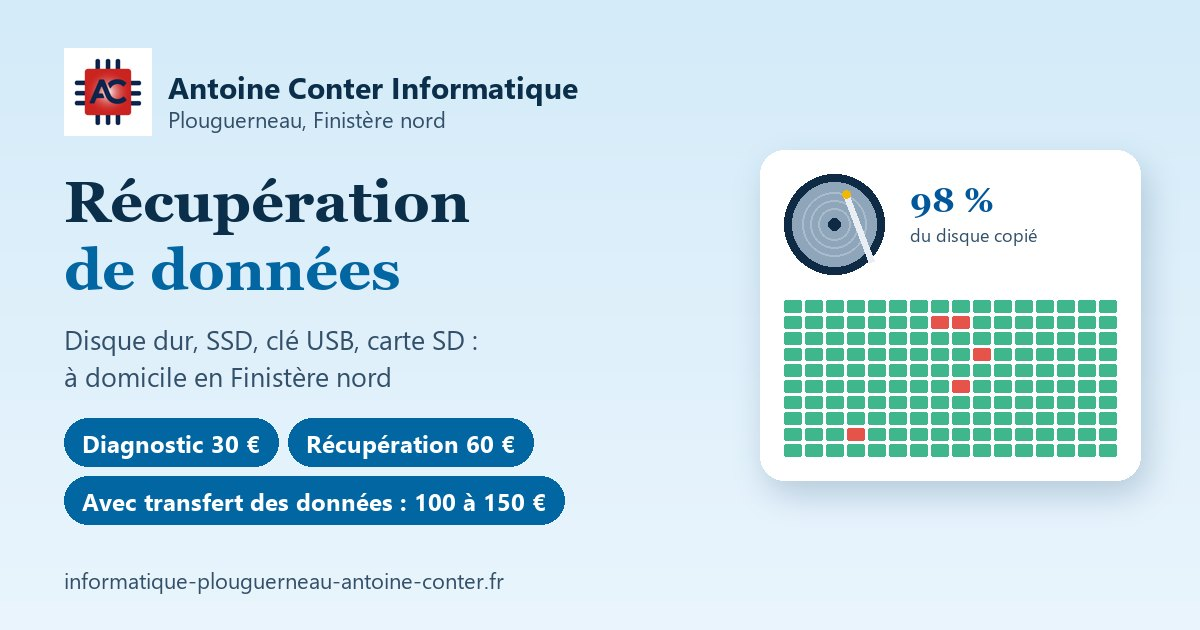
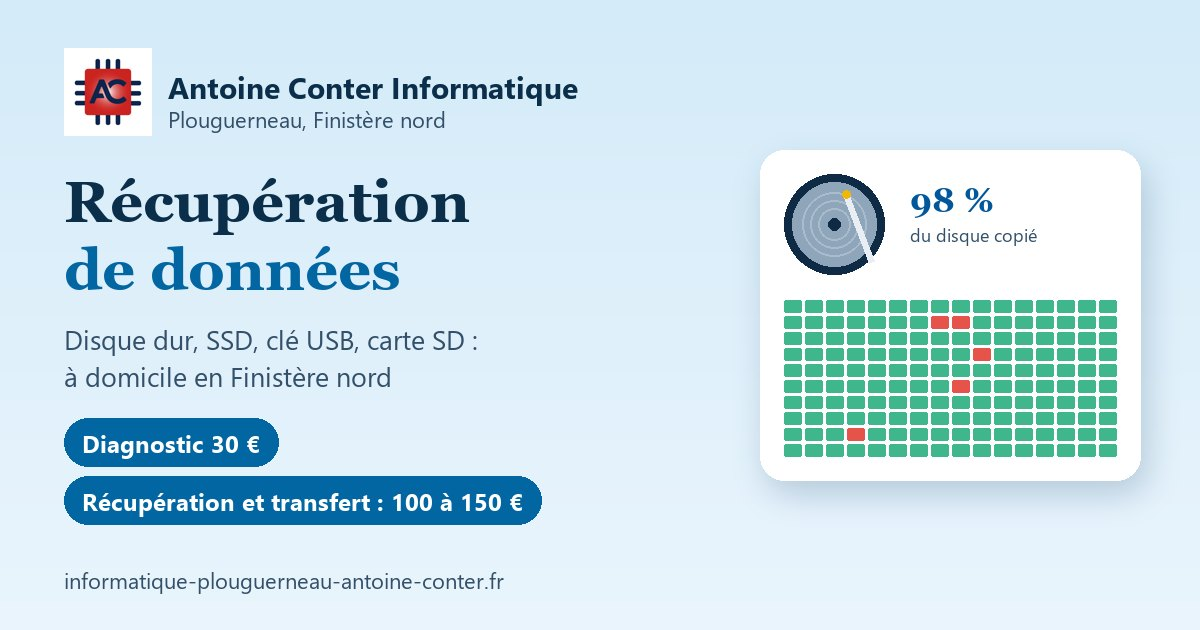
Recuperation de donnees : retrait de la formule recuperation seule

Changed region(s): [[0.0617, 0.6635, 0.4933, 0.8444]]

diff --git a/recuperation-donnees.html b/recuperation-donnees.html
@@ -29,10 +29,10 @@
   {"@context": "https://schema.org", "@type": "WebPage", "@id": "https://informatique-plouguerneau-antoine-conter.fr/recuperation-donnees.html#page", "url": "https://informatique-plouguerneau-antoine-conter.fr/recuperation-donnees.html", "name": "Récupération de données disque dur, SSD, clé USB, Finistère", "description": "Disque dur (HDD), SSD, clé USB ou carte SD illisible, fichiers effacés, PC qui ne démarre plus : récupération à domicile en Finistère nord. Diagnostic 30 €.", "inLanguage": "fr-FR", "datePublished": "2026-11-20", "dateModified": "2026-11-20", "isPartOf": {"@id": "https://informatique-plouguerneau-antoine-conter.fr/#website"}, "about": {"@id": "https://informatique-plouguerneau-antoine-conter.fr/recuperation-donnees.html#service"}, "primaryImageOfPage": {"@type": "ImageObject", "url": "https://informatique-plouguerneau-antoine-conter.fr/og-recuperation-donnees.jpg", "width": 1200, "height": 630}}
   </script>
   <script type="application/ld+json">
-  {"@context": "https://schema.org", "@type": "Service", "@id": "https://informatique-plouguerneau-antoine-conter.fr/recuperation-donnees.html#service", "name": "Récupération de données disque dur, SSD et clé USB en Finistère nord", "serviceType": "Récupération de données", "alternateName": ["Récupération de données disque dur", "Récupération de données SSD", "Récupération de données clé USB"], "description": "Récupération de fichiers sur disque dur (HDD), SSD, clé USB et carte SD : fichiers supprimés, supports formatés ou illisibles, ordinateurs qui ne démarrent plus, à domicile dans le nord Finistère. Diagnostic 30 €, récupération seule 60 €, récupération avec transfert des données de 100 à 150 €, tâche supplémentaire 35 € de l'heure.", "url": "https://informatique-plouguerneau-antoine-conter.fr/recuperation-donnees.html", "provider": {"@type": "LocalBusiness", "@id": "https://informatique-plouguerneau-antoine-conter.fr/#business", "name": "Antoine Conter Informatique", "url": "https://informatique-plouguerneau-antoine-conter.fr/", "telephone": "+33641537334", "sameAs": ["https://maps.google.com/?cid=9547913039402363284", "https://www.pagesjaunes.fr/pros/64303798", "https://www.instagram.com/antoine_conter_informatique", "https://www.facebook.com/antoine_conter_informatique"], "address": {"@type": "PostalAddress", "addressLocality": "Plouguerneau", "postalCode": "29880", "addressRegion": "Finistère", "addressCountry": "FR"}}, "areaServed": [{"@type": "AdministrativeArea", "name": "Pays des Abers"}, {"@type": "AdministrativeArea", "name": "Lesneven Côte des Légendes"}, {"@type": "AdministrativeArea", "name": "Pays d'Iroise"}, {"@type": "AdministrativeArea", "name": "Brest Métropole"}, {"@type": "AdministrativeArea", "name": "Finistère Nord"}, {"@type": "City", "name": "Plouguerneau"}, {"@type": "City", "name": "Lannilis"}, {"@type": "City", "name": "Landéda"}, {"@type": "City", "name": "Plabennec"}, {"@type": "City", "name": "Lesneven"}, {"@type": "City", "name": "Le Folgoët"}, {"@type": "City", "name": "Ploudaniel"}, {"@type": "City", "name": "Kerlouan"}, {"@type": "City", "name": "Brest"}, {"@type": "City", "name": "Guipavas"}, {"@type": "City", "name": "Gouesnou"}, {"@type": "City", "name": "Plouzané"}, {"@type": "City", "name": "Le Relecq-Kerhuon"}, {"@type": "City", "name": "Saint-Renan"}, {"@type": "City", "name": "Ploudalmézeau"}, {"@type": "City", "name": "Landerneau"}, {"@type": "City", "name": "Landivisiau"}], "hasOfferCatalog": {"@type": "OfferCatalog", "name": "Récupération de données", "itemListElement": [{"@type": "Offer", "price": "30", "priceCurrency": "EUR", "itemOffered": {"@type": "Service", "name": "Diagnostic à domicile"}}, {"@type": "Offer", "priceCurrency": "EUR", "priceSpecification": {"@type": "PriceSpecification", "minPrice": "100", "maxPrice": "150", "priceCurrency": "EUR"}, "itemOffered": {"@type": "Service", "name": "Récupération et transfert des données"}}, {"@type": "Offer", "price": "60", "priceCurrency": "EUR", "itemOffered": {"@type": "Service", "name": "Récupération de données seule (forfait)", "description": "Disque dur HDD, SSD, clé USB ou carte SD"}}, {"@type": "Offer", "priceCurrency": "EUR", "priceSpecification": {"@type": "UnitPriceSpecification", "price": "35", "priceCurrency": "EUR", "unitText": "heure"}, "itemOffered": {"@type": "Service", "name": "Tâche supplémentaire"}}]}}
+  {"@context": "https://schema.org", "@type": "Service", "@id": "https://informatique-plouguerneau-antoine-conter.fr/recuperation-donnees.html#service", "name": "Récupération de données disque dur, SSD et clé USB en Finistère nord", "serviceType": "Récupération de données", "alternateName": ["Récupération de données disque dur", "Récupération de données SSD", "Récupération de données clé USB"], "description": "Récupération de fichiers sur disque dur (HDD), SSD, clé USB et carte SD : fichiers supprimés, supports formatés ou illisibles, ordinateurs qui ne démarrent plus, à domicile dans le nord Finistère. Diagnostic 30 €, récupération avec transfert des données de 100 à 150 €, tâche supplémentaire 35 € de l'heure.", "url": "https://informatique-plouguerneau-antoine-conter.fr/recuperation-donnees.html", "provider": {"@type": "LocalBusiness", "@id": "https://informatique-plouguerneau-antoine-conter.fr/#business", "name": "Antoine Conter Informatique", "url": "https://informatique-plouguerneau-antoine-conter.fr/", "telephone": "+33641537334", "sameAs": ["https://maps.google.com/?cid=9547913039402363284", "https://www.pagesjaunes.fr/pros/64303798", "https://www.instagram.com/antoine_conter_informatique", "https://www.facebook.com/antoine_conter_informatique"], "address": {"@type": "PostalAddress", "addressLocality": "Plouguerneau", "postalCode": "29880", "addressRegion": "Finistère", "addressCountry": "FR"}}, "areaServed": [{"@type": "AdministrativeArea", "name": "Pays des Abers"}, {"@type": "AdministrativeArea", "name": "Lesneven Côte des Légendes"}, {"@type": "AdministrativeArea", "name": "Pays d'Iroise"}, {"@type": "AdministrativeArea", "name": "Brest Métropole"}, {"@type": "AdministrativeArea", "name": "Finistère Nord"}, {"@type": "City", "name": "Plouguerneau"}, {"@type": "City", "name": "Lannilis"}, {"@type": "City", "name": "Landéda"}, {"@type": "City", "name": "Plabennec"}, {"@type": "City", "name": "Lesneven"}, {"@type": "City", "name": "Le Folgoët"}, {"@type": "City", "name": "Ploudaniel"}, {"@type": "City", "name": "Kerlouan"}, {"@type": "City", "name": "Brest"}, {"@type": "City", "name": "Guipavas"}, {"@type": "City", "name": "Gouesnou"}, {"@type": "City", "name": "Plouzané"}, {"@type": "City", "name": "Le Relecq-Kerhuon"}, {"@type": "City", "name": "Saint-Renan"}, {"@type": "City", "name": "Ploudalmézeau"}, {"@type": "City", "name": "Landerneau"}, {"@type": "City", "name": "Landivisiau"}], "hasOfferCatalog": {"@type": "OfferCatalog", "name": "Récupération de données", "itemListElement": [{"@type": "Offer", "price": "30", "priceCurrency": "EUR", "itemOffered": {"@type": "Service", "name": "Diagnostic à domicile"}}, {"@type": "Offer", "priceCurrency": "EUR", "priceSpecification": {"@type": "PriceSpecification", "minPrice": "100", "maxPrice": "150", "priceCurrency": "EUR"}, "itemOffered": {"@type": "Service", "name": "Récupération et transfert des données", "description": "Disque dur HDD, SSD, clé USB ou carte SD"}}, {"@type": "Offer", "priceCurrency": "EUR", "priceSpecification": {"@type": "UnitPriceSpecification", "price": "35", "priceCurrency": "EUR", "unitText": "heure"}, "itemOffered": {"@type": "Service", "name": "Tâche supplémentaire"}}]}}
   </script>
   <script type="application/ld+json">
-  {"@context": "https://schema.org", "@type": "FAQPage", "mainEntity": [{"@type": "Question", "name": "Combien coûte une récupération de données ?", "acceptedAnswer": {"@type": "Answer", "text": "Le diagnostic à domicile coûte 30 €. La récupération seule est facturée 60 € au forfait. Avec le transfert des données sur votre ordinateur ou un nouveau support, comptez de 100 à 150 € selon les cas. Toute tâche supplémentaire est facturée 35 € de l'heure. Je vous annonce le prix avant de commencer."}}, {"@type": "Question", "name": "Que faire en attendant votre intervention ?", "acceptedAnswer": {"@type": "Answer", "text": "N'utilisez plus le support : ne copiez rien dessus, n'y installez pas de logiciel de récupération et ne le reformatez pas. Chaque écriture peut effacer définitivement les fichiers supprimés."}}, {"@type": "Question", "name": "Mon ordinateur ne démarre plus, mes fichiers sont-ils perdus ?", "acceptedAnswer": {"@type": "Answer", "text": "Pas forcément. Quand Windows ne démarre plus, le disque est souvent intact : je récupère les fichiers en lisant le disque depuis un autre ordinateur."}}, {"@type": "Question", "name": "J'ai formaté une clé USB ou une carte SD, peut-on retrouver les fichiers ?", "acceptedAnswer": {"@type": "Answer", "text": "Souvent, oui, si rien n'a été réécrit dessus depuis. Un formatage rapide n'efface pas les fichiers eux-mêmes, seulement leur table de rangement."}}, {"@type": "Question", "name": "Peut-on récupérer les données d'un SSD ?", "acceptedAnswer": {"@type": "Answer", "text": "Oui, quand le SSD fonctionne encore et que les fichiers n'ont pas été supprimés : c'est le cas d'un ordinateur qui ne démarre plus, par exemple. En revanche, un fichier supprimé sur un SSD est souvent effacé pour de bon par la fonction TRIM de Windows."}}, {"@type": "Question", "name": "Ma clé USB n'est plus reconnue ou demande à être formatée, que faire ?", "acceptedAnswer": {"@type": "Answer", "text": "Ne la formatez pas. Débranchez-la et ne l'utilisez plus. Si la clé est encore détectée par l'ordinateur, ses fichiers sont souvent récupérables. Si elle n'est plus détectée du tout ou si elle est cassée, je vous dis si un laboratoire est nécessaire."}}, {"@type": "Question", "name": "Disque dur HDD ou SSD : lequel se récupère le mieux ?", "acceptedAnswer": {"@type": "Answer", "text": "Le disque dur classique (HDD) se récupère généralement mieux après une suppression ou un formatage, car il n'efface pas tout de suite les fichiers supprimés. Le SSD est plus fiable mécaniquement, mais un fichier supprimé y disparaît souvent rapidement."}}, {"@type": "Question", "name": "Mon disque dur fait du bruit, que faire ?", "acceptedAnswer": {"@type": "Answer", "text": "Débranchez-le tout de suite. Un disque qui claque ou grince a souvent un problème mécanique, et chaque mise sous tension peut l'abîmer davantage. Dans ce cas, je vous oriente vers un laboratoire spécialisé."}}, {"@type": "Question", "name": "Pouvez-vous tout récupérer ?", "acceptedAnswer": {"@type": "Answer", "text": "Personne ne peut le garantir. Le diagnostic sert justement à savoir ce qui est récupérable avant de lancer la récupération."}}, {"@type": "Question", "name": "Mes fichiers restent-ils confidentiels ?", "acceptedAnswer": {"@type": "Answer", "text": "Oui. La récupération se fait chez vous, et vos fichiers sont copiés sur un disque ou une clé qui vous appartient. Je ne conserve pas vos données."}}, {"@type": "Question", "name": "Intervenez-vous dans ma commune ?", "acceptedAnswer": {"@type": "Answer", "text": "J'interviens à domicile dans 52 communes du nord Finistère, des Abers à Brest, Lesneven, Landerneau et le Pays d'Iroise, 7 jours sur 7 sur rendez-vous."}}]}
+  {"@context": "https://schema.org", "@type": "FAQPage", "mainEntity": [{"@type": "Question", "name": "Combien coûte une récupération de données ?", "acceptedAnswer": {"@type": "Answer", "text": "Le diagnostic à domicile coûte 30 €. La récupération avec le transfert des données sur votre ordinateur ou un nouveau support coûte de 100 à 150 € selon les cas. Toute tâche supplémentaire est facturée 35 € de l'heure. Je vous annonce le prix avant de commencer."}}, {"@type": "Question", "name": "Que faire en attendant votre intervention ?", "acceptedAnswer": {"@type": "Answer", "text": "N'utilisez plus le support : ne copiez rien dessus, n'y installez pas de logiciel de récupération et ne le reformatez pas. Chaque écriture peut effacer définitivement les fichiers supprimés."}}, {"@type": "Question", "name": "Mon ordinateur ne démarre plus, mes fichiers sont-ils perdus ?", "acceptedAnswer": {"@type": "Answer", "text": "Pas forcément. Quand Windows ne démarre plus, le disque est souvent intact : je récupère les fichiers en lisant le disque depuis un autre ordinateur."}}, {"@type": "Question", "name": "J'ai formaté une clé USB ou une carte SD, peut-on retrouver les fichiers ?", "acceptedAnswer": {"@type": "Answer", "text": "Souvent, oui, si rien n'a été réécrit dessus depuis. Un formatage rapide n'efface pas les fichiers eux-mêmes, seulement leur table de rangement."}}, {"@type": "Question", "name": "Peut-on récupérer les données d'un SSD ?", "acceptedAnswer": {"@type": "Answer", "text": "Oui, quand le SSD fonctionne encore et que les fichiers n'ont pas été supprimés : c'est le cas d'un ordinateur qui ne démarre plus, par exemple. En revanche, un fichier supprimé sur un SSD est souvent effacé pour de bon par la fonction TRIM de Windows."}}, {"@type": "Question", "name": "Ma clé USB n'est plus reconnue ou demande à être formatée, que faire ?", "acceptedAnswer": {"@type": "Answer", "text": "Ne la formatez pas. Débranchez-la et ne l'utilisez plus. Si la clé est encore détectée par l'ordinateur, ses fichiers sont souvent récupérables. Si elle n'est plus détectée du tout ou si elle est cassée, je vous dis si un laboratoire est nécessaire."}}, {"@type": "Question", "name": "Disque dur HDD ou SSD : lequel se récupère le mieux ?", "acceptedAnswer": {"@type": "Answer", "text": "Le disque dur classique (HDD) se récupère généralement mieux après une suppression ou un formatage, car il n'efface pas tout de suite les fichiers supprimés. Le SSD est plus fiable mécaniquement, mais un fichier supprimé y disparaît souvent rapidement."}}, {"@type": "Question", "name": "Mon disque dur fait du bruit, que faire ?", "acceptedAnswer": {"@type": "Answer", "text": "Débranchez-le tout de suite. Un disque qui claque ou grince a souvent un problème mécanique, et chaque mise sous tension peut l'abîmer davantage. Dans ce cas, je vous oriente vers un laboratoire spécialisé."}}, {"@type": "Question", "name": "Pouvez-vous tout récupérer ?", "acceptedAnswer": {"@type": "Answer", "text": "Personne ne peut le garantir. Le diagnostic sert justement à savoir ce qui est récupérable avant de lancer la récupération."}}, {"@type": "Question", "name": "Mes fichiers restent-ils confidentiels ?", "acceptedAnswer": {"@type": "Answer", "text": "Oui. La récupération se fait chez vous, et vos fichiers sont copiés sur un disque ou une clé qui vous appartient. Je ne conserve pas vos données."}}, {"@type": "Question", "name": "Intervenez-vous dans ma commune ?", "acceptedAnswer": {"@type": "Answer", "text": "J'interviens à domicile dans 52 communes du nord Finistère, des Abers à Brest, Lesneven, Landerneau et le Pays d'Iroise, 7 jours sur 7 sur rendez-vous."}}]}
   </script>
   <script type="application/ld+json">
   {"@context": "https://schema.org", "@type": "BreadcrumbList", "itemListElement": [{"@type": "ListItem", "position": 1, "name": "Accueil", "item": "https://informatique-plouguerneau-antoine-conter.fr/"}, {"@type": "ListItem", "position": 2, "name": "Dépannage", "item": "https://informatique-plouguerneau-antoine-conter.fr/depannage-informatique-plouguerneau.html"}, {"@type": "ListItem", "position": 3, "name": "Récupération de données", "item": "https://informatique-plouguerneau-antoine-conter.fr/recuperation-donnees.html"}]}
@@ -306,6 +306,7 @@ ul.check.vz-one{grid-template-columns:1fr;margin:.3rem 0 1.2rem}
 @media(max-width:900px){.dr-supports{grid-template-columns:1fr}}
 .vz-tiers.dr-tiers{grid-template-columns:repeat(4,1fr)}
 .dr-tiers .vz-amount b{font-size:2.1rem;white-space:nowrap}
+#tarifs-recuperation .vz-amount b{white-space:nowrap}
 .dr-tiers .vz-tier.feat .vz-amount b{font-size:1.8rem}
 @media(max-width:1100px){.vz-tiers.dr-tiers{grid-template-columns:1fr 1fr}}
 @media(max-width:620px){.vz-tiers.dr-tiers{grid-template-columns:1fr}}
@@ -434,8 +435,8 @@ html .vz-hero .breadcrumb a{color:#0b2e4a}
       <p class="vz-date">Mise à jour le <time datetime="2026-11-20">20 novembre 2026</time></p>
       <ul class="vz-prices" aria-label="Tarifs">
         <li><b>30 €</b><span>diagnostic à domicile</span></li>
-        <li><b>60 €</b><span>récupération seule</span></li>
-        <li><b>100 à 150 €</b><span>avec transfert des données</span></li>
+                <li><b>100 à 150 €</b><span>récupération et transfert</span></li>
+        <li><b>35 €/h</b><span>tâche supplémentaire</span></li>
       </ul>
       <div class="btns vz-btns">
         <a class="btn btn-gold" href="tel:+33641537334">Appeler le 06 41 53 73 34</a>
@@ -539,7 +540,7 @@ html .vz-hero .breadcrumb a{color:#0b2e4a}
 
   <section class="section" id="tarifs-recuperation">
     <h2>Tarifs de la récupération de données</h2>
-    <div class="vz-tiers dr-tiers">
+    <div class="vz-tiers">
       <article class="vz-tier">
         <h3>Diagnostic à domicile</h3>
         <p class="vz-amount"><b>30 €</b></p>
@@ -548,16 +549,6 @@ html .vz-hero .breadcrumb a{color:#0b2e4a}
           <li>Déplacement inclus</li>
           <li>Avis franc sur les chances de récupération</li>
           <li>Prix annoncé avant de continuer</li>
-        </ul>
-      </article>
-      <article class="vz-tier">
-        <h3>Récupération seule</h3>
-        <p class="vz-amount"><b>60 €</b><span>forfait</span></p>
-        <p>Si vos fichiers sont récupérables, je les récupère et on vérifie ensemble qu'ils s'ouvrent.</p>
-        <ul class="check vz-one">
-          <li>Photos, documents, mails, vidéos</li>
-          <li>Fichiers vérifiés avec vous</li>
-          <li>Sans transfert des données</li>
         </ul>
       </article>
       <article class="vz-tier feat">
@@ -595,7 +586,7 @@ html .vz-hero .breadcrumb a{color:#0b2e4a}
     <ol class="vz-steps">
       <li><b>Appel</b><span>Vous me décrivez le problème. Je vous dis tout de suite quoi éviter en attendant.</span></li>
       <li><b>Diagnostic chez vous</b><span>J'examine le support sans rien écrire dessus et je vous annonce ce qui est récupérable.</span></li>
-      <li><b>Récupération</b><span>Je récupère vos fichiers et, si vous le souhaitez, je les transfère sur votre ordinateur ou un nouveau support.</span></li>
+      <li><b>Récupération</b><span>Je récupère vos fichiers et je les transfère sur votre ordinateur ou un nouveau support.</span></li>
       <li><b>Sauvegarde</b><span>Je vous montre comment ne plus jamais dépendre d'un seul disque.</span></li>
     </ol>
   </section>
@@ -695,7 +686,7 @@ html .vz-hero .breadcrumb a{color:#0b2e4a}
 
   <section class="section">
     <h2>Questions fréquentes</h2>
-    <details><summary>Combien coûte une récupération de données ?</summary><p>Le diagnostic à domicile coûte 30 €. La récupération seule est facturée 60 € au forfait. Avec le transfert des données sur votre ordinateur ou un nouveau support, comptez de 100 à 150 € selon les cas. Toute tâche supplémentaire est facturée 35 € de l&#x27;heure. Je vous annonce le prix avant de commencer.</p></details>
+    <details><summary>Combien coûte une récupération de données ?</summary><p>Le diagnostic à domicile coûte 30 €. La récupération avec le transfert des données sur votre ordinateur ou un nouveau support coûte de 100 à 150 € selon les cas. Toute tâche supplémentaire est facturée 35 € de l&#x27;heure. Je vous annonce le prix avant de commencer.</p></details>
     <details><summary>Que faire en attendant votre intervention ?</summary><p>N&#x27;utilisez plus le support : ne copiez rien dessus, n&#x27;y installez pas de logiciel de récupération et ne le reformatez pas. Chaque écriture peut effacer définitivement les fichiers supprimés.</p></details>
     <details><summary>Mon ordinateur ne démarre plus, mes fichiers sont-ils perdus ?</summary><p>Pas forcément. Quand Windows ne démarre plus, le disque est souvent intact : je récupère les fichiers en lisant le disque depuis un autre ordinateur.</p></details>
     <details><summary>J&#x27;ai formaté une clé USB ou une carte SD, peut-on retrouver les fichiers ?</summary><p>Souvent, oui, si rien n&#x27;a été réécrit dessus depuis. Un formatage rapide n&#x27;efface pas les fichiers eux-mêmes, seulement leur table de rangement.</p></details>
@@ -710,7 +701,7 @@ html .vz-hero .breadcrumb a{color:#0b2e4a}
 
   <section class="cta">
     <h2>Disque dur, SSD ou clé USB à récupérer ?</h2>
-    <p>Arrêtez d'utiliser le support et appelez-moi. Diagnostic à domicile 30 €, récupération 60 €, avec transfert des données de 100 à 150 €, en Finistère nord.</p>
+    <p>Arrêtez d'utiliser le support et appelez-moi. Diagnostic à domicile 30 €, récupération et transfert des données de 100 à 150 €, en Finistère nord.</p>
     <div class="btns">
       <a class="btn btn-gold" href="tel:+33641537334">06 41 53 73 34</a>
       <a class="btn btn-o" href="/#contact">Écrire un message</a>
